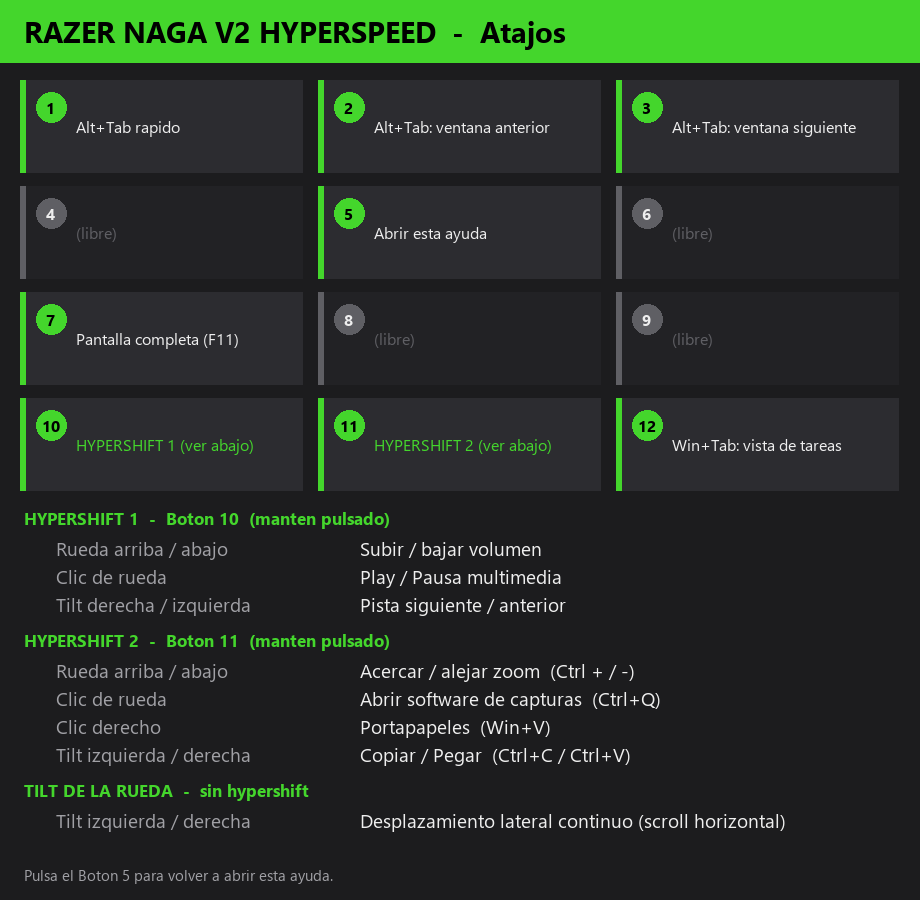
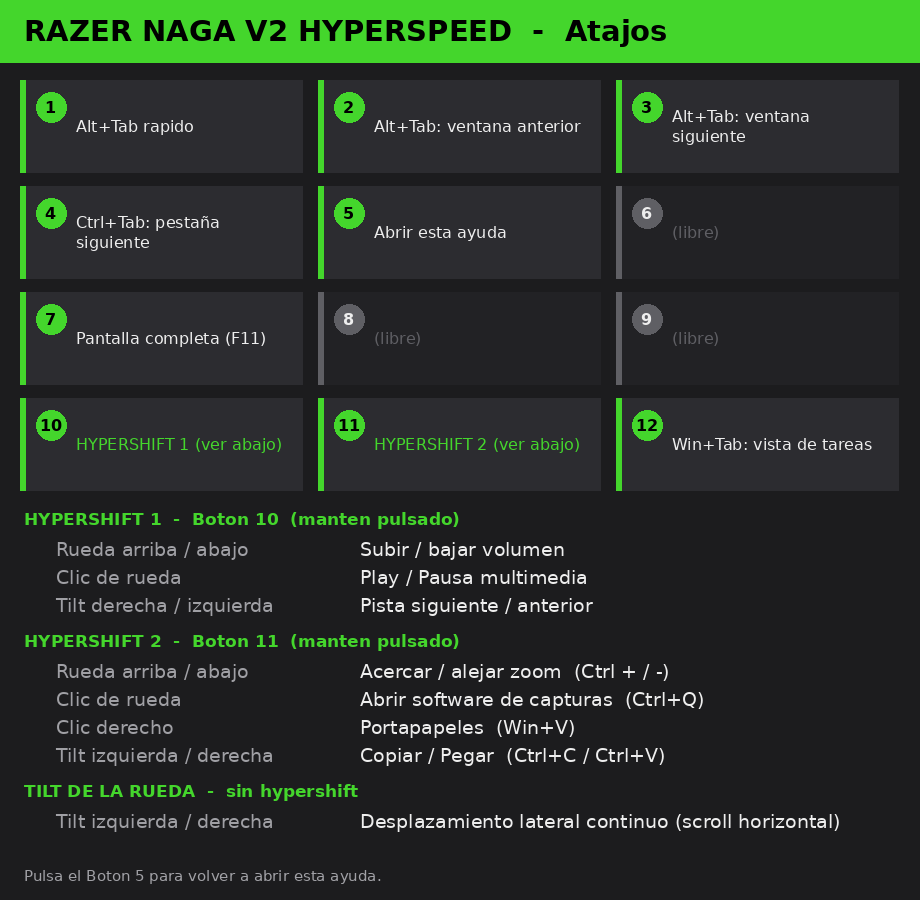
feat: numero de version en la bandeja y Boton 4 = Ctrl+Tab
- Version 1.0.0 en los tres scripts (Windows Python, AHK y Linux), visible en
  el tooltip del icono de bandeja y como primera linea del menu.
- Boton 4 (F16): siguiente pestana (Ctrl+Tab) en las tres implementaciones.
- Guia de atajos regenerada; README y CLAUDE.md actualizados (incluye la
  seccion de versionado).

diff --git a/linux/naga_macros.py b/linux/naga_macros.py
@@ -23,7 +23,7 @@
 #    Boton 1  (F13) Alt+Tab rapido
 #    Boton 2  (F14) Selector Alt+Tab  <- anterior
 #    Boton 3  (F15) Selector Alt+Tab  -> siguiente
-#    Boton 4  (F16) LIBRE
+#    Boton 4  (F16) Ctrl+Tab (siguiente pestaña)
 #    Boton 5  (F17) Abrir la guia de atajos
 #    Boton 6  (F18) LIBRE
 #    Boton 7  (F19) Pantalla completa (F11)
@@ -60,6 +60,10 @@ except ImportError:
     _HAS_TRAY = False
 
 from evdev import InputDevice, UInput, ecodes as e, list_devices
+
+# Version de las macros. Se muestra en el icono de la bandeja. Mantenerla
+# IGUAL en los tres scripts (ver CLAUDE.md, seccion "Versionado").
+VERSION = "1.0.0"
 
 # ---------------- CONFIGURACION ----------------
 
@@ -293,6 +297,8 @@ class NagaMacros:
             self.alttab(forward=False)
         elif n == 3:                     # selector ->
             self.alttab(forward=True)
+        elif n == 4:                     # siguiente pestaña
+            self.tap(e.KEY_LEFTCTRL, e.KEY_TAB)
         elif n == 5:                     # abrir guia de atajos
             subprocess.Popen(["xdg-open", IMAGE_PATH],
                              close_fds=True, start_new_session=True)
@@ -300,7 +306,7 @@ class NagaMacros:
             self.tap(e.KEY_F11)
         elif n == 12:                    # overview (tecla Super)
             self.tap(e.KEY_LEFTMETA)
-        # 4, 6, 8, 9 -> LIBRES (sin accion)
+        # 6, 8, 9 -> LIBRES (sin accion)
 
     # ---------- bucle principal ----------
     def run(self):
@@ -489,8 +495,9 @@ def main():
     def _set_active(active):
         if _HAS_TRAY and _icon[0] is not None:
             _icon[0].icon  = _ICON_ACTIVE if active else _ICON_WAITING
-            _icon[0].title = ("Naga Macros - activo"
-                              if active else "Naga Macros - esperando raton")
+            _icon[0].title = (f"Naga Macros v{VERSION} - activo"
+                              if active else
+                              f"Naga Macros v{VERSION} - esperando raton")
 
     def _worker():
         while _alive[0]:
@@ -552,8 +559,13 @@ def main():
         icon = pystray.Icon(
             "naga-macros",
             _ICON_WAITING,
-            "Naga Macros - esperando raton",
+            f"Naga Macros v{VERSION} - esperando raton",
             menu=pystray.Menu(
+                # Solo informativo (deshabilitado): la version a la vista al
+                # hacer clic en el icono.
+                pystray.MenuItem(f"Naga V2 Macros v{VERSION}",
+                                 lambda *_: None, enabled=False),
+                pystray.Menu.SEPARATOR,
                 pystray.MenuItem("Reiniciar", _on_restart),
                 pystray.MenuItem("Salir",     _on_quit),
             ),

diff --git a/windows-python/naga_macros_win.py b/windows-python/naga_macros_win.py
@@ -25,7 +25,7 @@
 #    Boton 1  (F13) Alt+Tab rapido
 #    Boton 2  (F14) Selector Alt+Tab  <- anterior
 #    Boton 3  (F15) Selector Alt+Tab  -> siguiente
-#    Boton 4  (F16) LIBRE
+#    Boton 4  (F16) Ctrl+Tab (siguiente pestaña)
 #    Boton 5  (F17) Abrir la guia de atajos
 #    Boton 6  (F18) LIBRE
 #    Boton 7  (F19) Pantalla completa (F11)
@@ -62,6 +62,10 @@ try:
     _HAS_TRAY = True
 except ImportError:
     _HAS_TRAY = False
+
+# Version de las macros. Se muestra en el icono de la bandeja. Mantenerla
+# IGUAL en los tres scripts (ver CLAUDE.md, seccion "Versionado").
+VERSION = "1.0.0"
 
 # ---------------- CONFIGURACION ----------------
 
@@ -584,13 +588,15 @@ class NagaMacros:
             self.alttab(forward=False)
         elif n == 3:                          # selector ->
             self.alttab(forward=True)
+        elif n == 4:                          # siguiente pestaña
+            tap(VK["CONTROL"], VK["TAB"])
         elif n == 5:                          # guia de atajos (ver guia_*)
             self.guia_mostrar()
         elif n == 7:                          # pantalla completa
             tap(VK["F11"])
         elif n == 12:                         # vista de tareas (Win+Tab)
             tap(VK["LWIN"], VK["TAB"])
-        # 4, 6, 8, 9 -> LIBRES (sin accion)
+        # 6, 8, 9 -> LIBRES (sin accion)
 
     # ---------- guia de atajos (Boton 5) ----------
     def guia_mostrar(self):
@@ -964,8 +970,14 @@ def run_tray(hooks, macros):
         hooks.stop()
 
     icon = pystray.Icon(
-        "naga_macros", _tray_image((68, 214, 44, 255)), "Naga V2 — Macros",
+        "naga_macros", _tray_image((68, 214, 44, 255)),
+        f"Naga V2 — Macros v{VERSION}",
         menu=pystray.Menu(
+            # Solo informativo (deshabilitado): la version a la vista al
+            # hacer clic derecho en el icono.
+            pystray.MenuItem(f"Naga V2 Macros v{VERSION}",
+                             lambda *_: None, enabled=False),
+            pystray.Menu.SEPARATOR,
             pystray.MenuItem("Abrir guia de atajos", on_guia, default=True),
             pystray.MenuItem("Reiniciar", on_restart),
             pystray.MenuItem("Salir", on_quit),
@@ -989,7 +1001,7 @@ def main():
                 "\n\n"
                 "Busca el icono verde en la bandeja del sistema "
                 "(junto al reloj).",
-                "Naga V2 Macros", 0x40)
+                f"Naga V2 Macros v{VERSION}", 0x40)
         except Exception:
             pass
         return

diff --git a/generar_guia_atajos.py b/generar_guia_atajos.py
@@ -33,7 +33,7 @@ CELDAS = [
     (1,  "Alt+Tab rapido",             0),
     (2,  "Alt+Tab: ventana anterior",  0),
     (3,  "Alt+Tab: ventana siguiente", 0),
-    (4,  "(libre)",                    2),
+    (4,  "Ctrl+Tab: pestaña siguiente", 0),
     (5,  "Abrir esta ayuda",           0),
     (6,  "(libre)",                    2),
     (7,  "Pantalla completa (F11)",    0),

diff --git a/CLAUDE.md b/CLAUDE.md
@@ -45,7 +45,7 @@ Botón → tecla: **Botón N = F(12+N)** → Botón 1=F13 … Botón 12=F24.
 | 1 | F13 | Alt+Tab rápido (un toque) |
 | 2 | F14 | Selector Alt+Tab persistente — anterior |
 | 3 | F15 | Selector Alt+Tab persistente — siguiente |
-| 4 | F16 | **LIBRE** |
+| 4 | F16 | Siguiente pestaña (Ctrl+Tab) |
 | 5 | F17 | Abrir la guía de atajos (`NagaV2_atajos.png`) |
 | 6 | F18 | **LIBRE** |
 | 7 | F19 | Pantalla completa (F11) |
@@ -94,6 +94,27 @@ Luego, si procede: `git add . && git commit`.
 > Mantener los 4 en coherencia es lo importante. Un cambio que solo toca uno de
 > ellos deja el proyecto inconsistente (p. ej. Windows y Linux divergen, o la
 > guía de atajos miente).
+
+---
+
+## Versionado
+
+Las tres implementaciones llevan **el mismo número de versión** (SemVer,
+`MAYOR.MENOR.PARCHE`), visible en el icono de la bandeja: en el tooltip y como
+primera línea (deshabilitada) del menú. Al publicar un cambio, subirlo en los
+**tres** sitios a la vez:
+
+| Archivo | Dónde |
+|---------|-------|
+| `windows-python/naga_macros_win.py` | `VERSION = "x.y.z"` (sección CONFIGURACION) |
+| `windows-ahk/NagaV2_Macros.ahk` | `NAGA_VERSION := "x.y.z"` y la directiva `;@Ahk2Exe-SetVersion` |
+| `linux/naga_macros.py` | `VERSION = "x.y.z"` (sección CONFIGURACION) |
+
+Criterio: **PARCHE** = arreglo sin cambiar atajos; **MENOR** = macro nueva o
+cambiada; **MAYOR** = cambio que obliga a reconfigurar algo (Synapse, rutas,
+autoarranque). Tras el commit, etiquetar: `git tag vX.Y.Z`. El `.exe` de
+Windows hay que **recompilarlo** (`compilar_exe.ps1`) para que muestre la
+versión nueva.
 
 ---
 

diff --git a/README.md b/README.md
@@ -74,7 +74,7 @@ Correspondencia botón → tecla:
 | **1** | Alt+Tab rápido (un toque) |
 | **2** | Selector Alt+Tab persistente — ventana **anterior** |
 | **3** | Selector Alt+Tab persistente — ventana **siguiente** |
-| **4** | *(libre)* |
+| **4** | Siguiente pestaña (`Ctrl+Tab`) |
 | **5** | Abrir esta guía de atajos (imagen) |
 | **6** | *(libre)* |
 | **7** | Pantalla completa (`F11`) |
@@ -385,6 +385,16 @@ Detalles de la unidad que conviene no cambiar a la ligera:
 > los dos pasos de *Ejecutar sin `sudo`* de arriba. Sin root no puede fijar la
 > prioridad en tiempo real (`SCHED_FIFO`) y avisa por el log; es inofensivo,
 > solo se pierde una pequeña optimización de latencia.
+
+---
+
+## Versión
+
+Cada script muestra su versión en el icono de la bandeja del sistema: al pasar
+el ratón por encima (tooltip) y en la primera línea del menú que se abre al
+hacer clic. Las tres implementaciones (Windows Python, Windows AHK y Linux)
+comparten el mismo número; cada versión publicada lleva su etiqueta `vX.Y.Z`
+en git.
 
 ---
 
